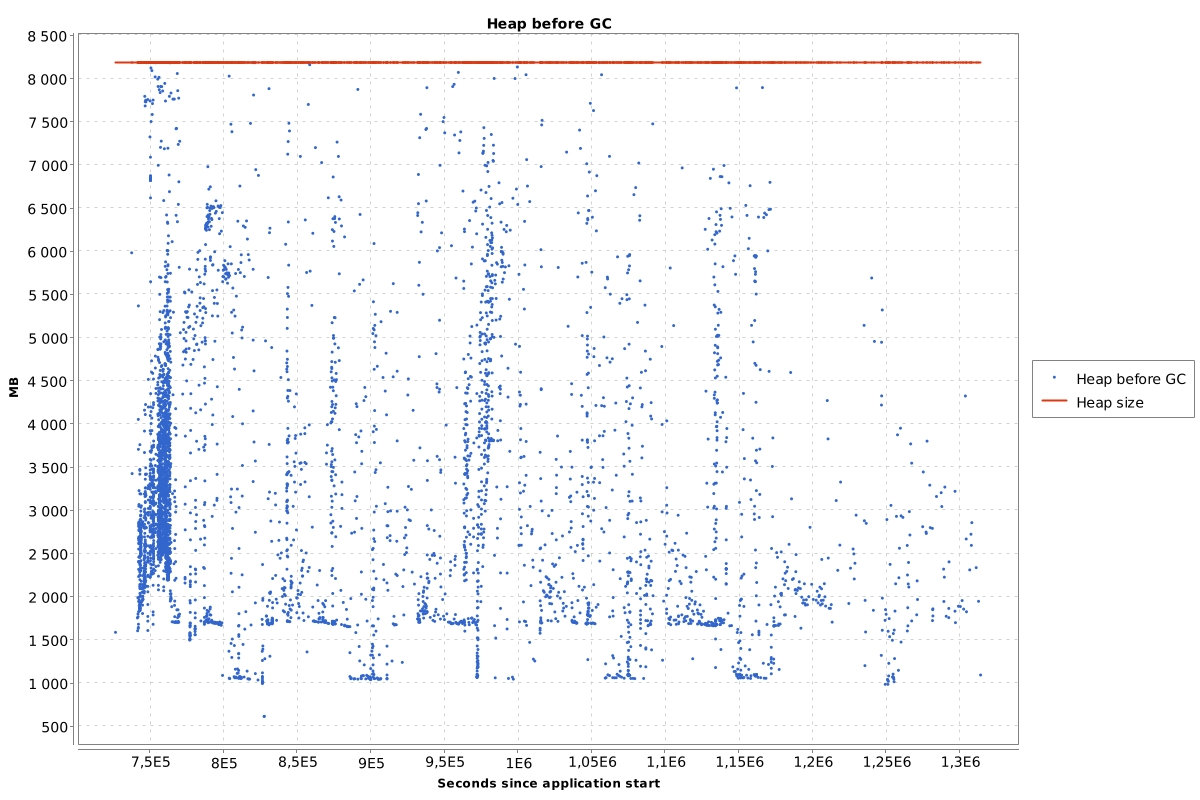
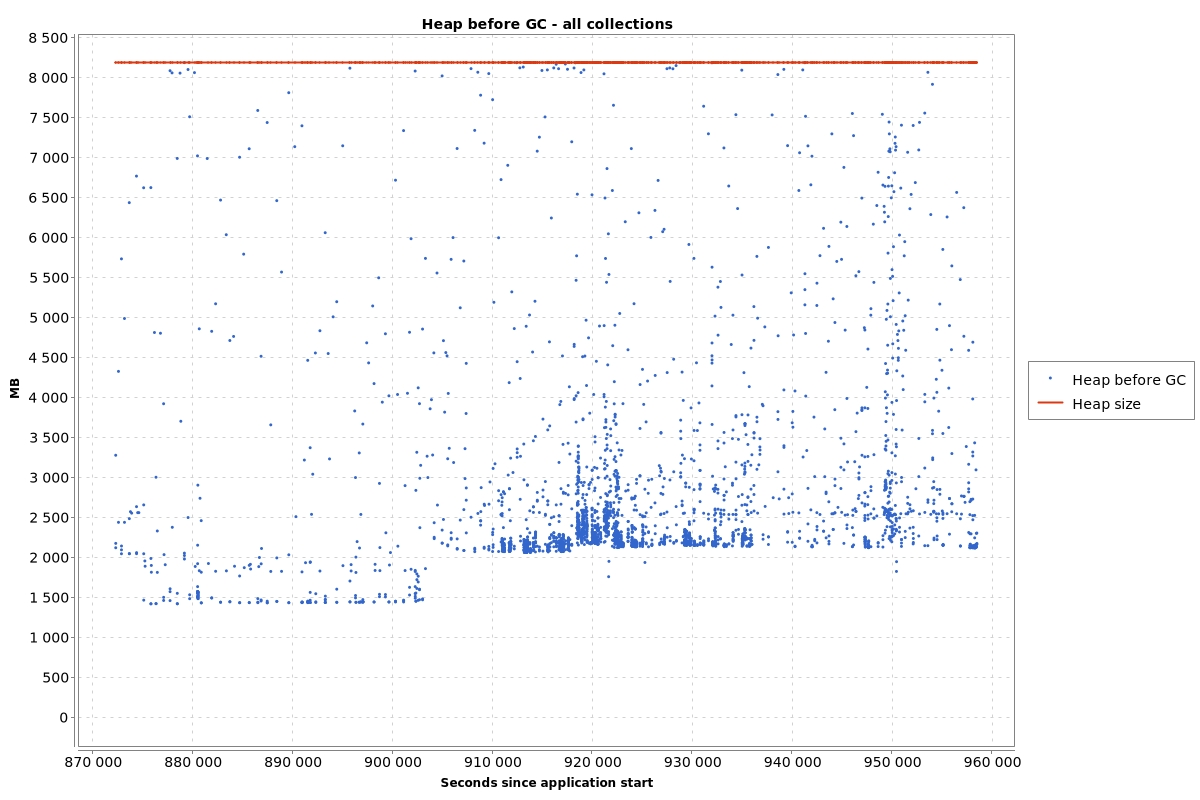
Monday

diff --git a/_posts/2021-07-18-monday-hbgc.md b/_posts/2021-07-18-monday-hbgc.md
@@ -22,22 +22,29 @@ You can find **three** sizes in such an entry **A->B(C)** that are:
 * **C** - current size of a whole heap
 
 If we take the **A** value from each collection and put it on a chart we can generate _Heap before GC_ chart. From such a chart we can find out when our
-_garbage collector_ starts it work. Hera are examples of such a chart from **G1** _collector_ (those are charts from **7/8days** period):
+_garbage collector_ starts it work.
+
+Here is an example of such a chart from **G1** _collector_ (this chart is from **1 day** period):
+
+![alt text](/assets/monday-3/7.jpg "7")
+
+That's what we would like that graph to look like. Most of the _collections_ are done when heap is almost full. That gap 
+between red and blue line is done by **G1** setting called ```-XX:G1ReservePercent=10```. The value **10** is the
+default value. This setting means that **G1** reserves **10%** of the whole heap as free, so it can copy living _Objects_ from _eden_ to _survivor_ space. 
+Usually that graph looks like:
 
 ![alt text](/assets/monday-3/3.jpg "3")
 
-![alt text](/assets/monday-3/6.jpg "6")
-
 ![alt text](/assets/monday-3/2.jpg "2")
 
-Each chart contains **two** groups of points. Let's focus on the last one. Max heap size is **8GB**, and the **G1** starts:
+Each chart contains **three** groups of points. Let's focus on the second graph. Max heap size is **8GB**, and the **G1** starts:
 * most of the time between **6GB** and **7GB**
 * sometimes between **4GB** and **5GB**
+* sometimes between **2,5GB** and **3,5GB**
 
-The second group of collections is done by _concurrent_ part of **G1**. It can be started before _eden_ is filled with _Objects_. 
-
-Why does **G1** start the _collection_ at **7GB** level? Well, you have one magic **G1** setting called ```-XX:G1ReservePercent=10```. The value **10** is the
-default one. This setting means that **G1** reserves **10%** of the whole heap as free, so it can copy living _Objects_ from _eden_ to _survivor_ space.
+The third group of _collections_ is done by _concurrent_ part of **G1**. It can be started before _eden_ is filled with _Objects_. The second group
+is done by normal _young collection_ soon after _mixed collections_. It is done by **G1** _ergonomics_ which shrinks the _young generation_ to
+handle _mixed collections_ within **200ms** STW pause time (200ms is the default).
 
 ## Bad examples
 
